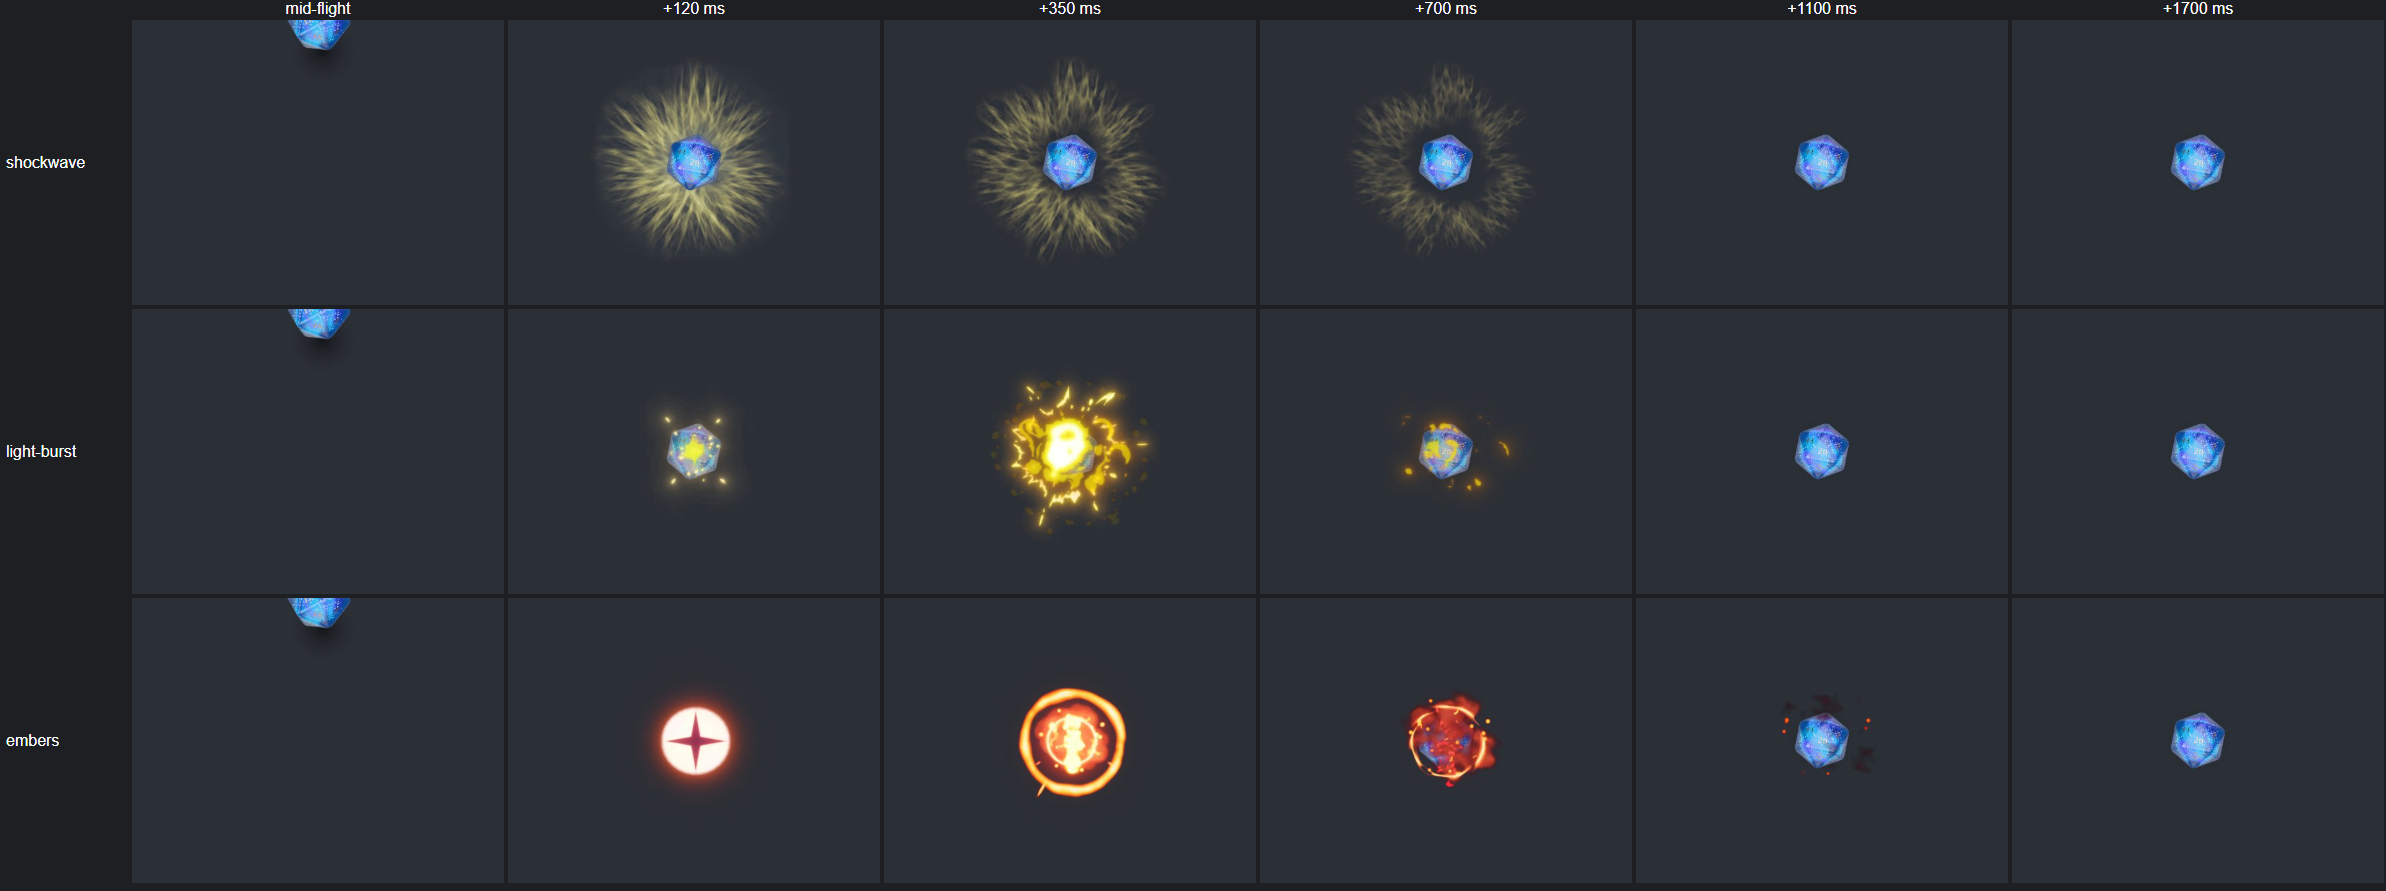
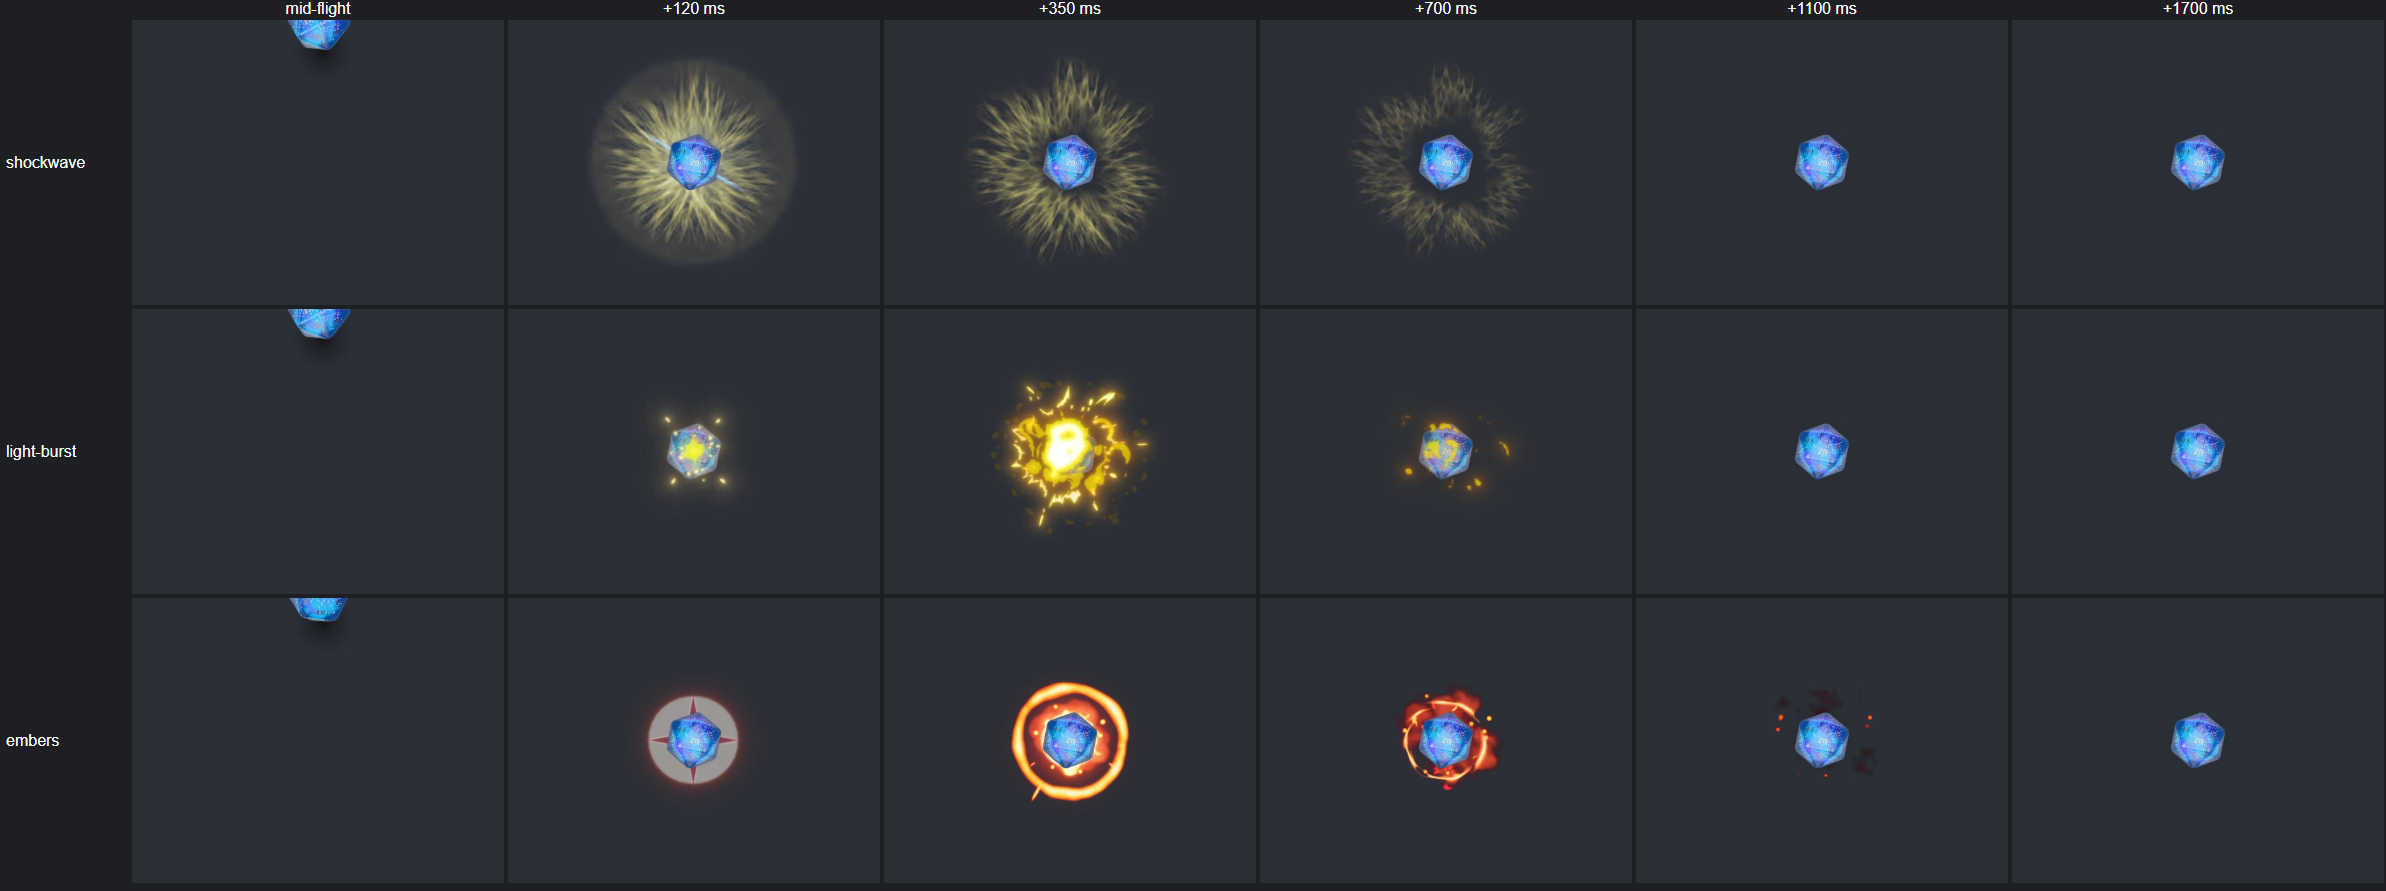
fix(jb2a): draw embers and shatter on the table under the die
The over layers hid the landed value for about a second. The previous
commit also swapped shockwave from Impact_01 to Impact_04 (an expanding
ring instead of 0.3 s of thin rays).

diff --git a/src/jb2a/chunk/catalogue.js b/src/jb2a/chunk/catalogue.js
@@ -72,8 +72,8 @@ export const JB2A_EFFECTS = Object.freeze({
             'Yellow'
         )
     ]),
-    embers: Object.freeze([layer('Impact', 'ImpactFire01_01_Regular_Orange_600x600.webm', 'over', 6)]),
-    shatter: Object.freeze([layer('Impact', 'ImpactIceShard01_01_Regular_Blue_400x400.webm', 'over', 6)])
+    embers: Object.freeze([layer('Impact', 'ImpactFire01_01_Regular_Orange_600x600.webm', 'table', 7)]),
+    shatter: Object.freeze([layer('Impact', 'ImpactIceShard01_01_Regular_Blue_400x400.webm', 'table', 7)])
 });
 
 const _hsl = { h: 0, s: 0, l: 0 };
